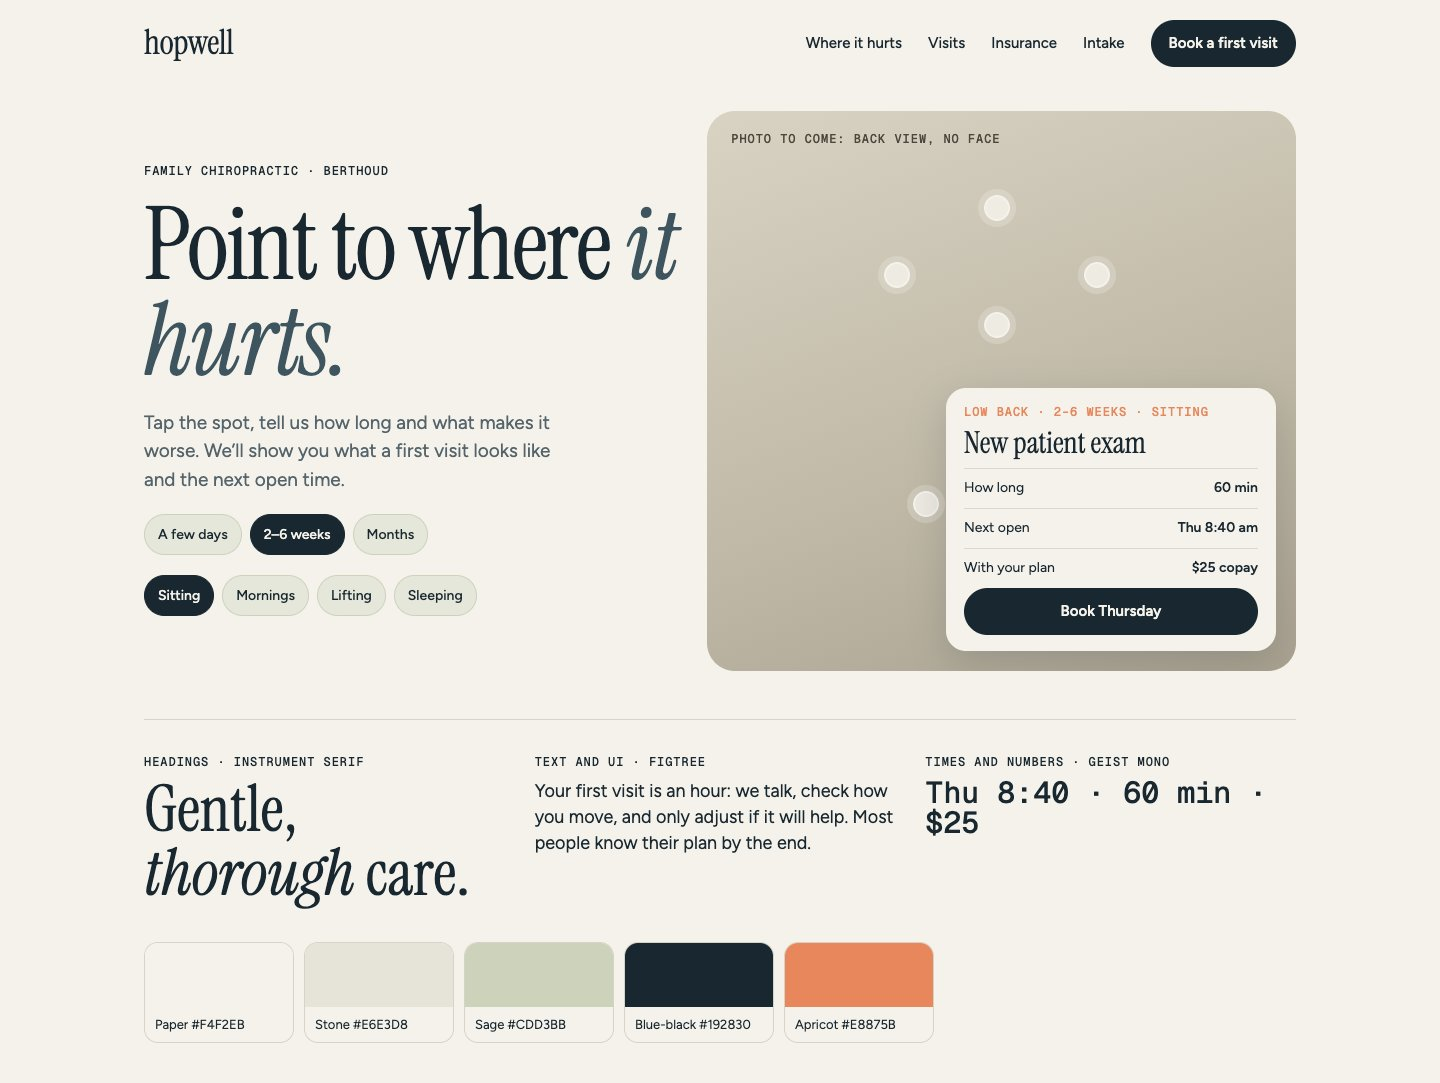
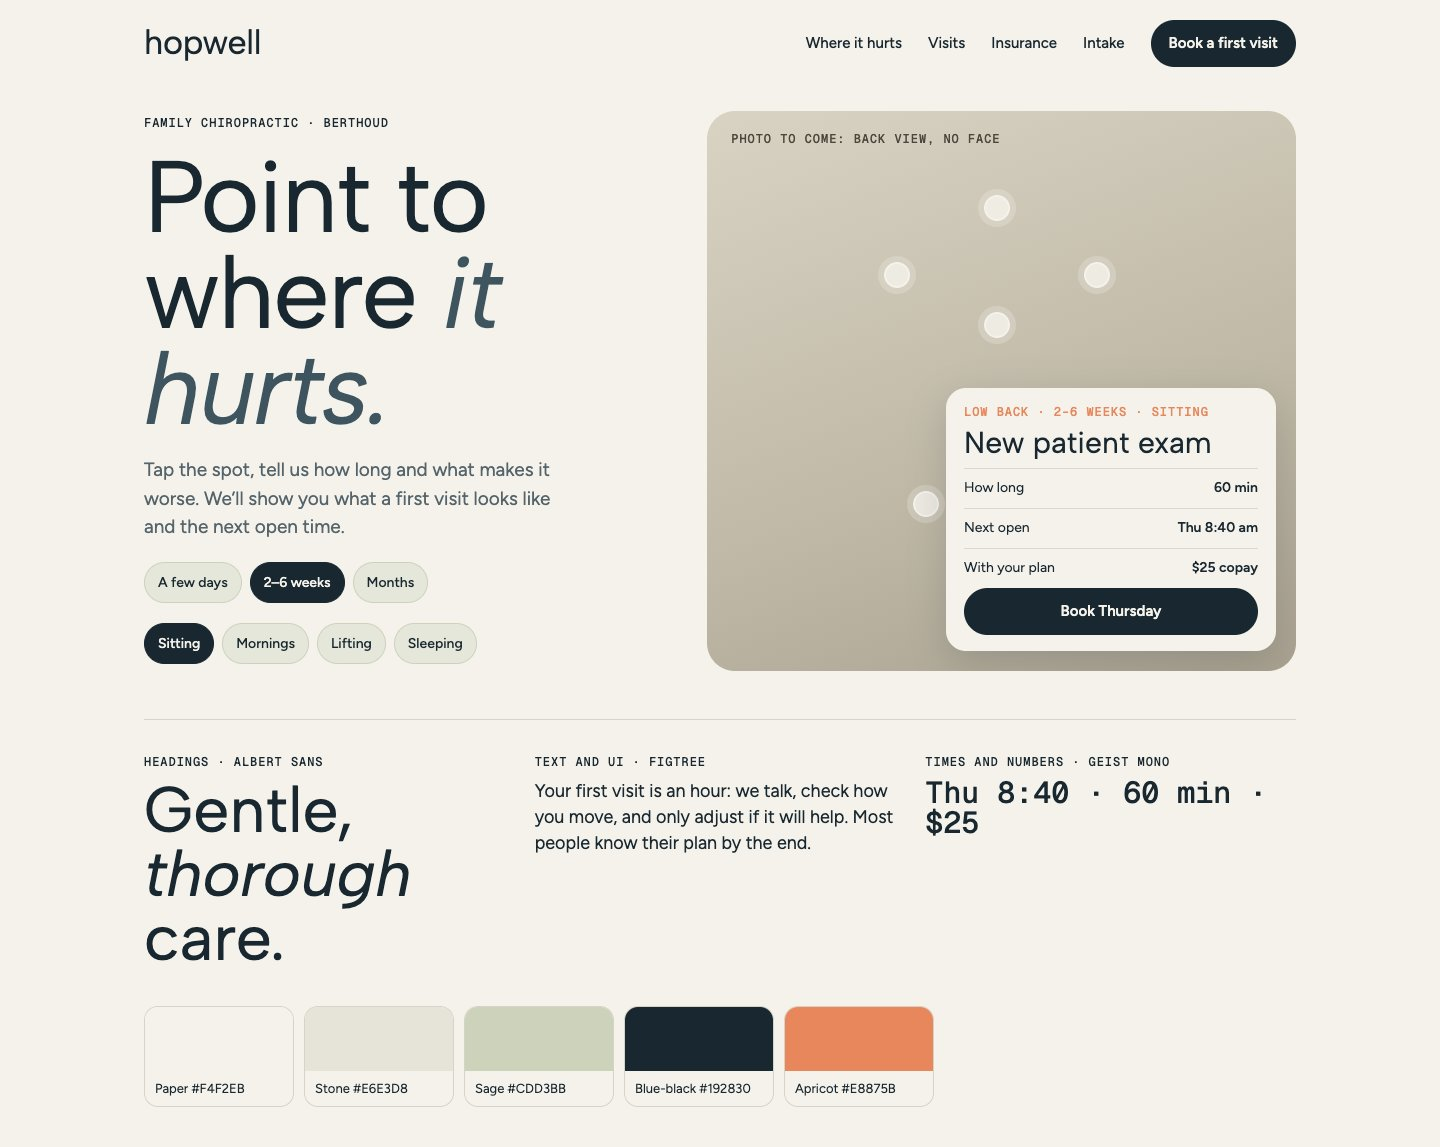
Hopwell: heading font from a Refero survey (Albert Sans), contact sheet, look re-rendered

diff --git a/notes/bunny-world/hopwell-type/sheet.html b/notes/bunny-world/hopwell-type/sheet.html
@@ -1,18 +1,18 @@
 <!doctype html><html lang="en"><head><meta charset="utf-8"><meta name="viewport" content="width=device-width,initial-scale=1">
 <title>Hopwell type and look</title>
-<link rel="stylesheet" href="https://fonts.googleapis.com/css2?family=Instrument+Serif:ital@0;1&family=Figtree:wght@400;500;600&family=Geist+Mono:wght@400;500&display=swap">
+<link rel="stylesheet" href="https://fonts.googleapis.com/css2?family=Albert+Sans:ital,wght@0,400;0,500;1,400&family=Figtree:wght@400;500;600&family=Geist+Mono:wght@400;500&display=swap">
 <style>
 :root{--stone:#E6E3D8;--paper:#F4F2EB;--ink:#192830;--sage:#CDD3BB;--sage2:#E4E7DA;--apricot:#E8875B;--muted:#55646B}
 *{box-sizing:border-box}body{margin:0;background:var(--paper);color:var(--ink);font:400 16px/1.5 Figtree,sans-serif}
 .wrap{max-width:1200px;margin:0 auto;padding:0 24px}
 .mono{font:500 12px/1 "Geist Mono",monospace;letter-spacing:.08em;text-transform:uppercase}
 header{display:flex;justify-content:space-between;align-items:center;padding:20px 0}
-.logo{font:400 34px/1 "Instrument Serif",serif;letter-spacing:-.01em}
+.logo{font:400 34px/1 "Albert Sans",sans-serif;letter-spacing:-.01em}
 nav{display:flex;gap:26px;align-items:center;font-weight:500;font-size:15px}
 .btn{background:var(--ink);color:var(--paper);border-radius:999px;padding:12px 18px;font-weight:600;font-size:15px}
 .hero{display:grid;grid-template-columns:minmax(0,1fr) minmax(0,1.1fr);gap:28px;align-items:stretch;padding:24px 0 48px}
 .lead{display:flex;flex-direction:column;justify-content:center;gap:20px}
-h1{font:400 clamp(52px,7vw,104px)/.95 "Instrument Serif",serif;letter-spacing:-.02em;margin:0}
+h1{font:400 clamp(52px,7vw,104px)/.95 "Albert Sans",sans-serif;letter-spacing:-.02em;margin:0}
 h1 i{color:#3E5560}
 .lead p{font-size:19px;color:var(--muted);max-width:34ch;margin:0}
 .chips{display:flex;flex-wrap:wrap;gap:8px}.chip{background:var(--sage2);border:1px solid var(--sage);border-radius:999px;padding:9px 13px;font-weight:500;font-size:14px}
@@ -22,12 +22,12 @@ h1 i{color:#3E5560}
 .dot{position:absolute;width:26px;height:26px;border-radius:50%;background:rgba(244,242,235,.85);border:2px solid var(--paper);box-shadow:0 0 0 6px rgba(244,242,235,.25)}
 .dot.on{background:var(--apricot);box-shadow:0 0 0 8px rgba(232,135,91,.3)}
 .res{position:absolute;right:20px;bottom:20px;width:min(330px,calc(100% - 40px));background:var(--paper);border-radius:20px;padding:18px 18px 16px;display:grid;gap:10px;box-shadow:0 12px 40px rgba(25,40,48,.18)}
-.res h3{font:400 30px/1 "Instrument Serif",serif;margin:0}.res .k{color:var(--apricot)}
+.res h3{font:400 30px/1 "Albert Sans",sans-serif;margin:0}.res .k{color:var(--apricot)}
 .row{display:flex;justify-content:space-between;font-size:14px;border-top:1px solid #DAD7CC;padding-top:8px}.row b{font-weight:600}
 .res .btn{text-align:center}
 .spec{display:grid;grid-template-columns:repeat(3,minmax(0,1fr));gap:20px;padding:36px 0;border-top:1px solid #D6D3C8}
 .spec div{display:grid;gap:10px;align-content:start}
-.big{font:400 64px/1 "Instrument Serif",serif}.big i{font-style:italic}
+.big{font:400 64px/1 "Albert Sans",sans-serif}.big i{font-style:italic}
 .txt{font:400 18px/1.45 Figtree,sans-serif}
 .num{font:500 30px/1 "Geist Mono",monospace}
 .pal{display:flex;gap:10px;padding:0 0 40px;flex-wrap:wrap}.sw{width:150px;border-radius:14px;overflow:hidden;border:1px solid #D6D3C8;font-size:13px}.sw i{display:block;height:64px}.sw span{display:block;padding:8px 10px}
@@ -50,7 +50,7 @@ h1 i{color:#3E5560}
  </div>
 </section>
 <section class="spec">
- <div><span class="mono">Headings · Instrument Serif</span><span class="big">Gentle, <i>thorough</i> care.</span></div>
+ <div><span class="mono">Headings · Albert Sans</span><span class="big">Gentle, <i>thorough</i> care.</span></div>
  <div><span class="mono">Text and UI · Figtree</span><span class="txt">Your first visit is an hour: we talk, check how you move, and only adjust if it will help. Most people know their plan by the end.</span></div>
  <div><span class="mono">Times and numbers · Geist Mono</span><span class="num">Thu 8:40 · 60 min · $25</span></div>
 </section>

diff --git a/notes/bunny-world/hopwell-plan.md b/notes/bunny-world/hopwell-plan.md
@@ -34,11 +34,12 @@ References from Refero (no chiropractors on Refero; these are the closest calm, 
 - **Fresha first-visit check** (refero screen 770b0ede): "Is this your first visit?" on the left with a summary card on the right. The answer-card layout.
 - **Hers intake questions** (refero screen d1f3c27d): one question, big tappable answers. The chips.
 
-- **Type:** **Instrument Serif** for headlines (with italics for the soft word), **Figtree** for text and UI, **Geist Mono** for times, prices and labels. No other shop uses these. Replaces Source Serif 4 and Inter.
+- **Type:** **Albert Sans** (regular, with its italic for the soft word) for headlines, **Figtree** for text and UI, **Geist Mono** for times, prices and labels. No other shop uses these. Replaces Source Serif 4 and Inter.
+  - Why not a serif (Tristan, 2026-11-15: unsure about the condensed Instrument Serif): on Refero the field splits. Function, Doctronic and Luffu use serifs or flared type; Biograph, Radial, Hims, Baba and A Better Lou use plain sans at a regular weight. The calm, human ones (Radial, Biograph) use a large, regular-weight sans in sentence case, not a bold one. Albert Sans is that: open, friendly and quiet, suited to a local family clinic rather than a premium lab. Contact sheet: `hopwell-type/heading-fonts-refero.jpg`. Belleza (an Optima-like flared face, the nearest free match to Luffu) was tried and dropped: one weight only, and its italic is faked.
 - **Palette:** paper `#F4F2EB`, stone `#E6E3D8`, sage `#CDD3BB`, blue-black `#192830` ink and buttons, apricot `#E8875B` only for the chosen spot and the answer card's label.
 - **Shapes:** big soft radii (28px stage, pill chips and buttons), no drawn art, no icons beyond the cart.
 
-Type and look sheet: `hopwell-type/look-desktop.jpg` and `look-375.jpg` (from `sheet.html`; the photo slot is a placeholder).
+Type and look sheet: `hopwell-type/look-desktop.jpg` (from `sheet.html`; the photo slot is a placeholder).
 
 ## Photos (replace the drawn hero; no drawn or clipart art anywhere)
 Look: a bright, calm Berthoud treatment room, morning window light, linen, wood and plants; honest and warm, 35 mm film grain. **No faces, no text, no brands, no medical gore.** The recurring bunny prop is a small pale ceramic rabbit somewhere in every shot.
